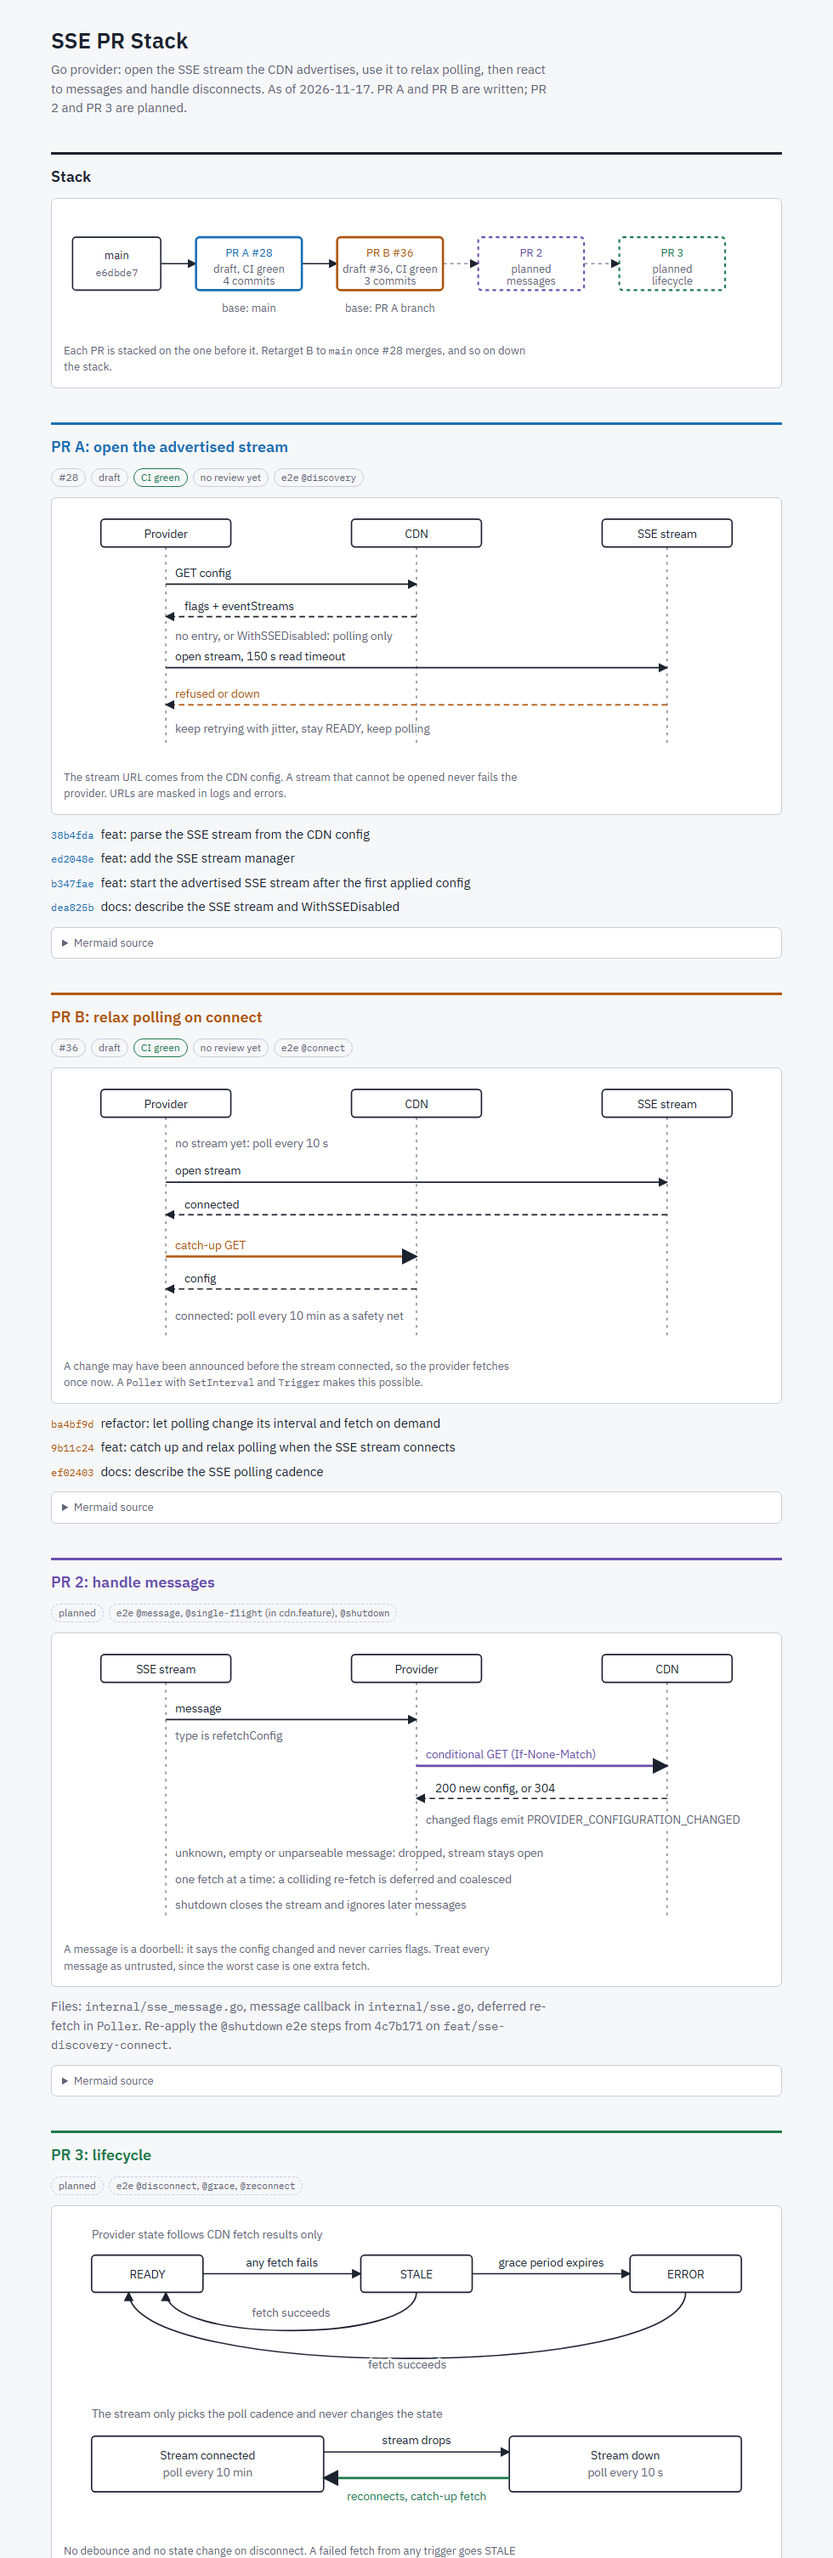
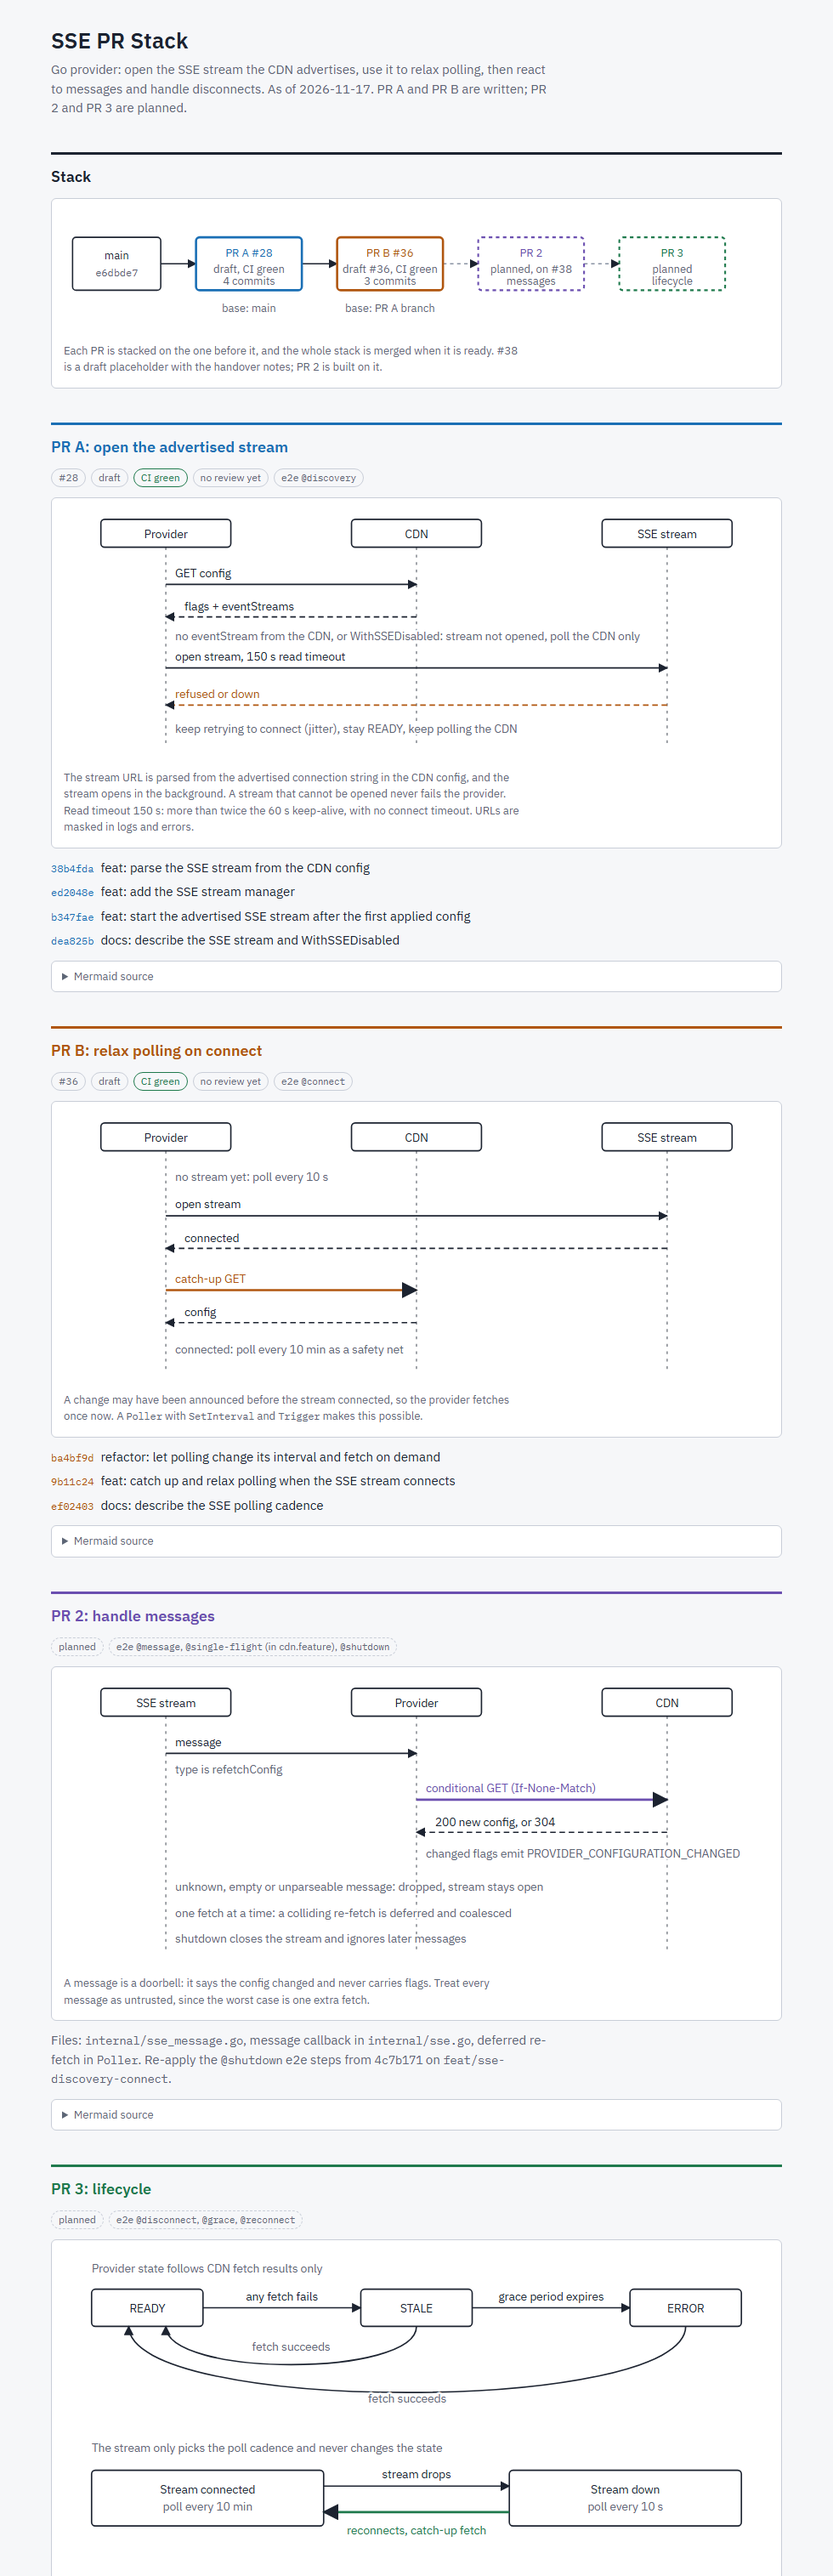
docs: sync the SSE diagrams with the PR descriptions

diff --git a/docs/sse-handover.md b/docs/sse-handover.md
@@ -10,7 +10,8 @@ The Go provider opens the SSE stream the CDN config advertises. A message is a d
 |---|---|---|
 | A: parse the stream from the CDN config, stream manager, start after first config, `WithSSEDisabled`, docs | `feat/sse-open-stream`, PR #28 | pushed, draft, CI green, no review yet |
 | B: `Poller` (interval change, trigger), catch-up fetch and connected cadence on connect, docs | `feat/sse-connect-polling`, PR #36 | stacked on A (base `feat/sse-open-stream`), draft, CI green, no review yet |
-| PR 2: message handling | not started | see below |
+| Handover notes (this PR) | `docs/sse-handover`, PR #38 | placeholder, draft, stacked on B (base `feat/sse-connect-polling`) |
+| PR 2: message handling | not started | see below; build it on this branch |
 | PR 3: lifecycle (disconnect, reconnect, grace) | not started | see below |
 
 ![SSE PR stack: overview and one diagram per PR](sse-pr-stack.png)
@@ -20,15 +21,17 @@ The same diagrams as copy-paste Mermaid are in [`sse-pr-diagrams.md`](sse-pr-dia
 ```mermaid
 flowchart LR
   main["main"] --> A["PR A (#28)<br/>open the stream"]
-  A --> B["PR B<br/>catch up, relax polling"]
-  B -.-> P2["PR 2 (planned)<br/>message handling"]
+  A --> B["PR B (#36)<br/>relax polling on connect"]
+  B --> H["#38 (placeholder)<br/>handover notes"]
+  H -.-> P2["PR 2 (planned)<br/>message handling"]
   P2 -.-> P3["PR 3 (planned)<br/>lifecycle"]
 ```
 
 e2e tags enabled today: A `@discovery`, B `@discovery,@connect`. Other `@sse` groups stay excluded in `e2e/cdn_test.go` until the PR that implements them.
 
 ## Decisions already made
-- SSE read timeout 150 s. No connect or write timeout.
+- SSE read timeout 150 s, because that is more than twice the 60 s keep-alive. No connect or write timeout.
+- The stack is merged together after review (stated on #36), not one PR at a time.
 - Never log credentials or a raw stream URL: always `MaskURL`. Also scrub error strings (`net/http` puts the URL in `url.Error`) and the library logger.
 - The stream URL comes from the CDN config (flat `url` wins, else `endpoint.requestUri` + `endpoint.origin`, falling back to the CDN origin). We do not derive the channel name.
 - A stream that never connects keeps retrying (with jitter). It is not a disconnect: no cadence or state change.
@@ -52,7 +55,7 @@ e2e tags enabled today: A `@discovery`, B `@discovery,@connect`. Other `@sse` gr
 - Does the production CDN ETag cover `eventStreams`? Until verified, `ParseSSEURL` runs on every config instead of skipping when the ETag is unchanged.
 - Stdlib SSE client or keep the library?
 - Java provider leaks stream credentials in two places (start-failure warning via `URI.create`, and the library debug log). To raise with the Java owners.
-- Merge strategy: if the repo squashes, per-commit types never reach the changelog.
+- Merge strategy: the stack merges together, but squash versus merge commit is still unchecked. If the repo squashes, per-commit types never reach the changelog.
 
 ## How to work here
 - Commits: one short line, Conventional Commits (`feat:`, `fix:`, `chore:`), no body. `lint-pr.yml` enforces PR titles. CHANGELOG is release-please managed: do not edit.

diff --git a/docs/sse-pr-diagrams.md b/docs/sse-pr-diagrams.md
@@ -7,12 +7,13 @@ Placeholder notes, see [`sse-handover.md`](sse-handover.md). Mermaid, so it rend
 ```mermaid
 flowchart LR
   main["main"] --> A["PR A (#28)<br/>open the stream"]
-  A --> B["PR B<br/>catch up, relax polling"]
-  B -.-> P2["PR 2 (planned)<br/>message handling"]
+  A --> B["PR B (#36)<br/>relax polling on connect"]
+  B --> H["#38 (placeholder)<br/>handover notes"]
+  H -.-> P2["PR 2 (planned)<br/>message handling"]
   P2 -.-> P3["PR 3 (planned)<br/>lifecycle"]
 ```
 
-## PR A: open the advertised stream
+## PR A (#28): open the advertised stream
 
 ```mermaid
 sequenceDiagram
@@ -21,13 +22,15 @@ sequenceDiagram
   participant S as SSE stream
   P->>C: GET config
   C-->>P: flags + eventStreams
-  Note over P: no entry or WithSSEDisabled means polling only
+  Note over P: no eventStream from the CDN or WithSSEDisabled: stream not opened, poll the CDN only
   P->>S: open stream (150 s read timeout)
   S--xP: refused or down
-  Note over P: keep retrying with jitter, stay READY, keep polling
+  Note over P: keep retrying to connect (jitter), stay READY, keep polling the CDN
 ```
 
-## PR B: catch up and relax polling on connect
+The read timeout is more than twice the 60 s keep-alive. There is no connect timeout.
+
+## PR B (#36): relax polling when the stream connects
 
 ```mermaid
 sequenceDiagram
